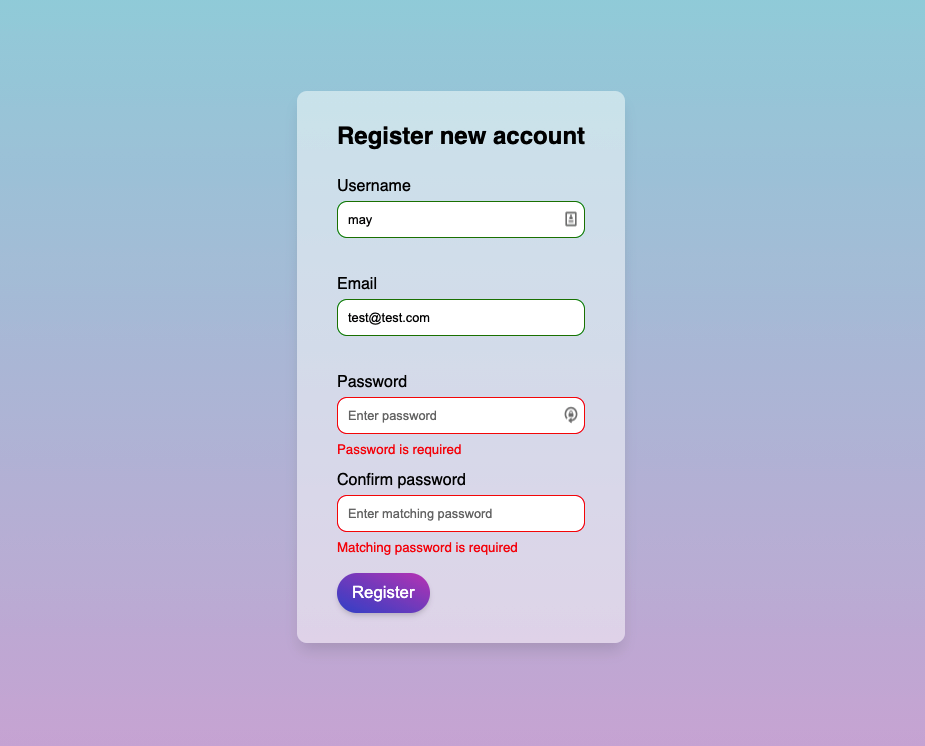
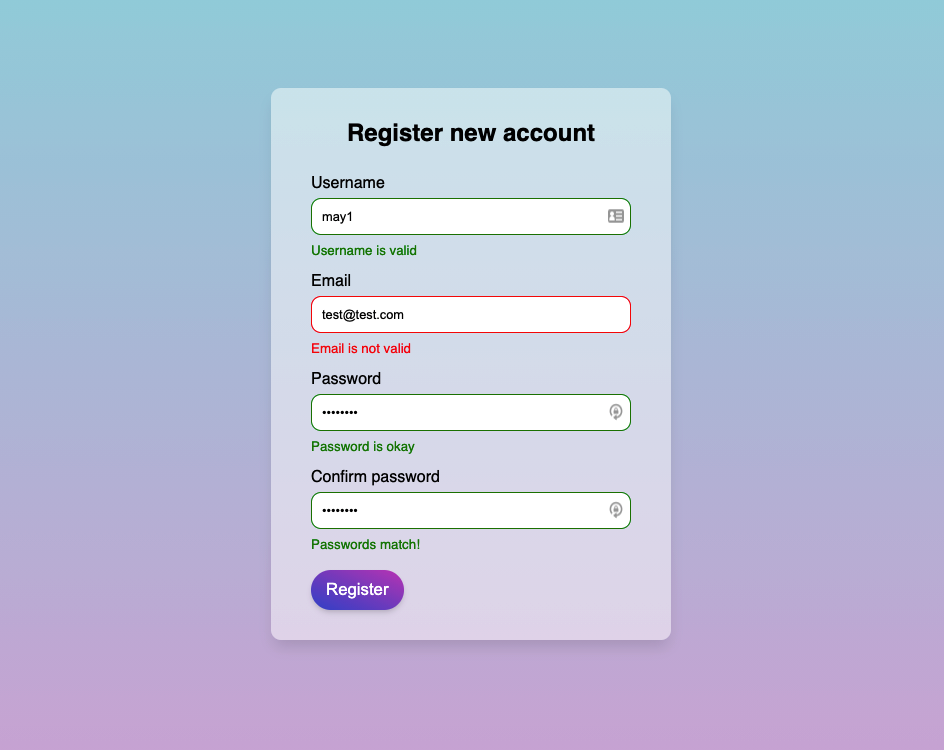
username regex complete

Changed region(s): [[0.2724, 0.0925, 0.7265, 0.8633]]

diff --git a/script.js b/script.js
@@ -23,12 +23,16 @@ function showSuccess(input, successMessage) {
 }
 
 function validateForm(username, email, password, password2) {
+  const usernameRegex = /^[a-zA-Z0-9]{4,}$/;
   const passwordRegex = /^(?=.*[\d])(?=.*[A-Z])(?=.*[a-z])(?=.*[!@#$%^&*])[\w!@#$%^&*]{8,}$/;
-
-  console.log(password);
 
   if (username.value === "") {
     showError(username, "Username is required");
+  } else if (!username.value.match(usernameRegex)) {
+    showError(
+      username,
+      "Username must contain at least 4 characters, a-z, A-Z"
+    );
   } else {
     showSuccess(username, "Username is valid");
   }
